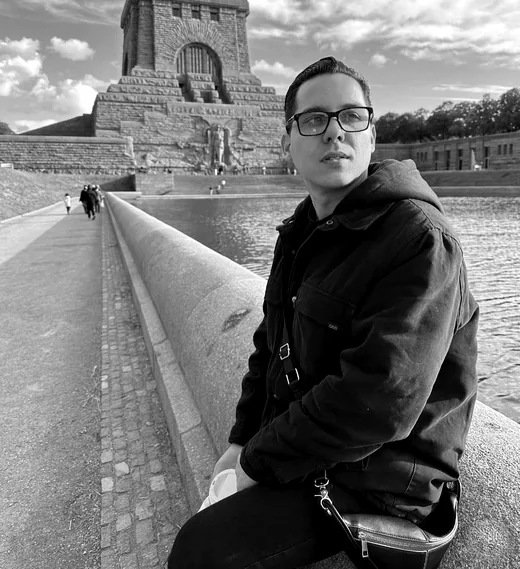
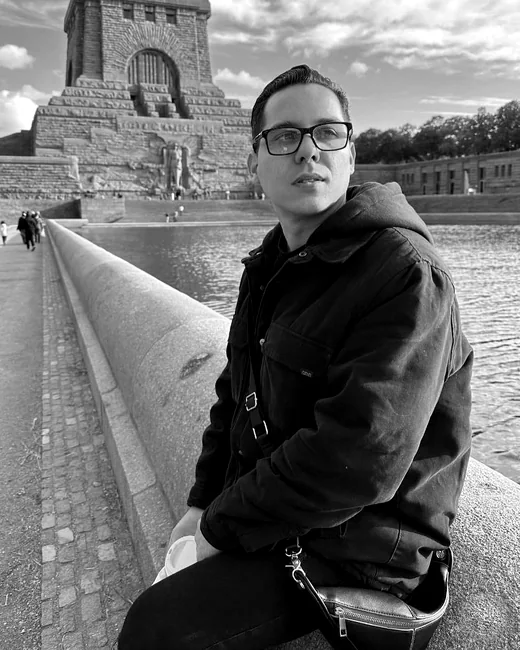
Las franjas grises de la foto de Eduardo
La caja de la ficha es 4:5 y esa foto venia mas cuadrada, asi que sobraba
arriba y abajo y ese hueco se rellenaba con el papel: dos franjas grises que
se veian.

Se arregla en el ARCHIVO y no en el navegador: las dos fotos se recortan a
4:5 exacto quitando fondo por el lado donde no hay nadie —en la de Eduardo,
164 px de paseo por la izquierda; en la otra, unos pocos por la derecha—.
Ninguna de las dos personas se corta, las dos llenan su caja y no queda nada
que rellenar.

Recortar el archivo eligiendo yo por donde es mejor que dejar que el
navegador corte por donde le toque. El «object-fit» pasa a «cover» como red
de seguridad para la proxima foto que llegue con otra proporcion.

Claude-Session: https://claude.ai/code/session_01LJT6Q3uWtj4pZqCrqcq3WD

diff --git a/whitepaper/index.html b/whitepaper/index.html
@@ -282,15 +282,18 @@ td b{color:var(--ink)}
 .eq{display:flex;flex-wrap:wrap;gap:14px;margin:20px 0 28px}
 .eq figure{margin:0;width:188px;border:1px solid var(--linea);border-radius:10px;
   overflow:hidden;background:var(--paper)}
-/* Todas las fichas miden lo mismo y ninguna foto se recorta: la caja es fija
-   —4 de ancho por 5 de alto, un pelo mas alta que la mas alargada que hay— y
-   la foto se mete dentro entera con «contain». La que sobra por arriba y por
-   abajo se rellena con el papel de la ficha, asi que no se ve una banda: se
-   ve aire. La proxima foto que llegue, venga como venga, encaja sola.
+/* Todas las fichas miden lo mismo y ninguna persona se corta. La caja es fija
+   —4 de ancho por 5 de alto— y los ARCHIVOS vienen recortados a esa misma
+   proporcion, quitando fondo por el lado donde no hay nadie. Asi la foto
+   llena la caja y no queda ninguna franja que rellenar.
+   Antes se metia la foto entera con «contain» y lo que sobraba se rellenaba
+   con el papel: en una de las dos eso eran dos franjas grises de veinte
+   pixeles arriba y abajo, y se veian. Recortar el archivo —eligiendo yo por
+   donde— es mejor que dejar que el navegador corte por donde le toque.
    «height:auto» hace falta porque el atributo height del HTML entra como
    altura fija y se salta la proporcion; los atributos siguen puestos para que
    no haya salto mientras carga. */
-.eq img{display:block;width:100%;height:auto;aspect-ratio:4/5;object-fit:contain;
+.eq img{display:block;width:100%;height:auto;aspect-ratio:4/5;object-fit:cover;
   filter:grayscale(1) contrast(1.04);background:var(--paper-2)}
 .eq figcaption{padding:10px 12px 12px}
 .eq .eq-n{font-weight:600;color:var(--ink);font-size:15px;line-height:1.3}
@@ -2261,7 +2264,7 @@ sobre ellos.</p>
 <h2 id="quienes">Equipo fundador</h2>
 <div class="eq">
   <figure>
-    <img src="../img/equipo/ceo.webp" width="520" height="569" loading="lazy" decoding="async"
+    <img src="../img/equipo/ceo.webp" width="520" height="650" loading="lazy" decoding="async"
          alt="Eduardo Gut, fundador y consejero delegado de Nereum Labs">
     <figcaption>
       <div class="eq-n">Eduardo Gut</div>
@@ -2271,7 +2274,7 @@ sobre ellos.</p>
     </figcaption>
   </figure>
   <figure>
-    <img src="../img/equipo/cofundador.webp" width="520" height="642" loading="lazy" decoding="async"
+    <img src="../img/equipo/cofundador.webp" width="520" height="650" loading="lazy" decoding="async"
          alt="Cofundador de Nereum Labs">
     <figcaption>
       <div class="eq-c">Cofundador</div>
@@ -3475,7 +3478,7 @@ verify about them.</p>
 <h2 id="quienes">Core team</h2>
 <div class="eq">
   <figure>
-    <img src="../img/equipo/ceo.webp" width="520" height="569" loading="lazy" decoding="async"
+    <img src="../img/equipo/ceo.webp" width="520" height="650" loading="lazy" decoding="async"
          alt="Eduardo Gut, founder and chief executive of Nereum Labs">
     <figcaption>
       <div class="eq-n">Eduardo Gut</div>
@@ -3485,7 +3488,7 @@ verify about them.</p>
     </figcaption>
   </figure>
   <figure>
-    <img src="../img/equipo/cofundador.webp" width="520" height="642" loading="lazy" decoding="async"
+    <img src="../img/equipo/cofundador.webp" width="520" height="650" loading="lazy" decoding="async"
          alt="Co-founder of Nereum Labs">
     <figcaption>
       <div class="eq-c">Co-founder</div>
